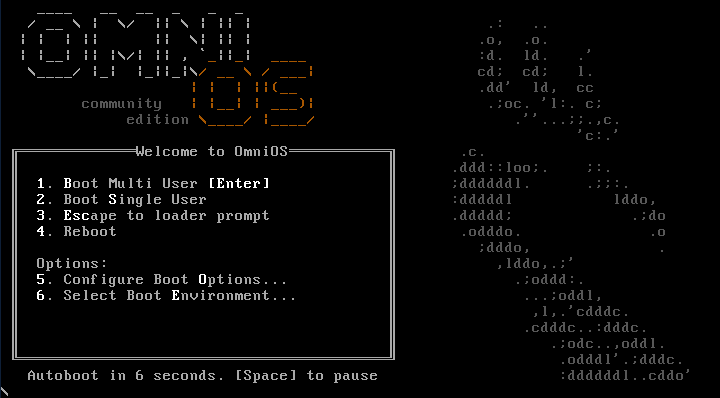
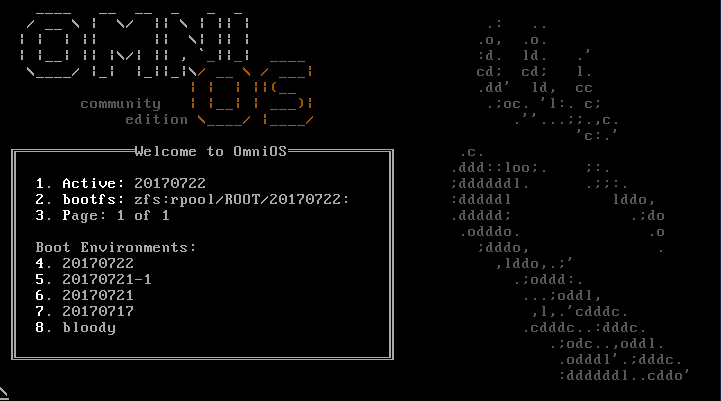
fix Boot environment screenshot and replace initial loader screenshot

diff --git a/_docs/info/loader.md b/_docs/info/loader.md
@@ -120,7 +120,7 @@ Interacting with Loader
 
 The Loader main screen looks like this:
 
-![Main loader screen)](/assets/images/install_48_48.png)
+![Main loader screen)](/assets/images/Loader.png)
 
 Normally a 10-second countdown will display at the bottom, and if
 nothing is done, OmniOS itself will boot. This screen provides all of
